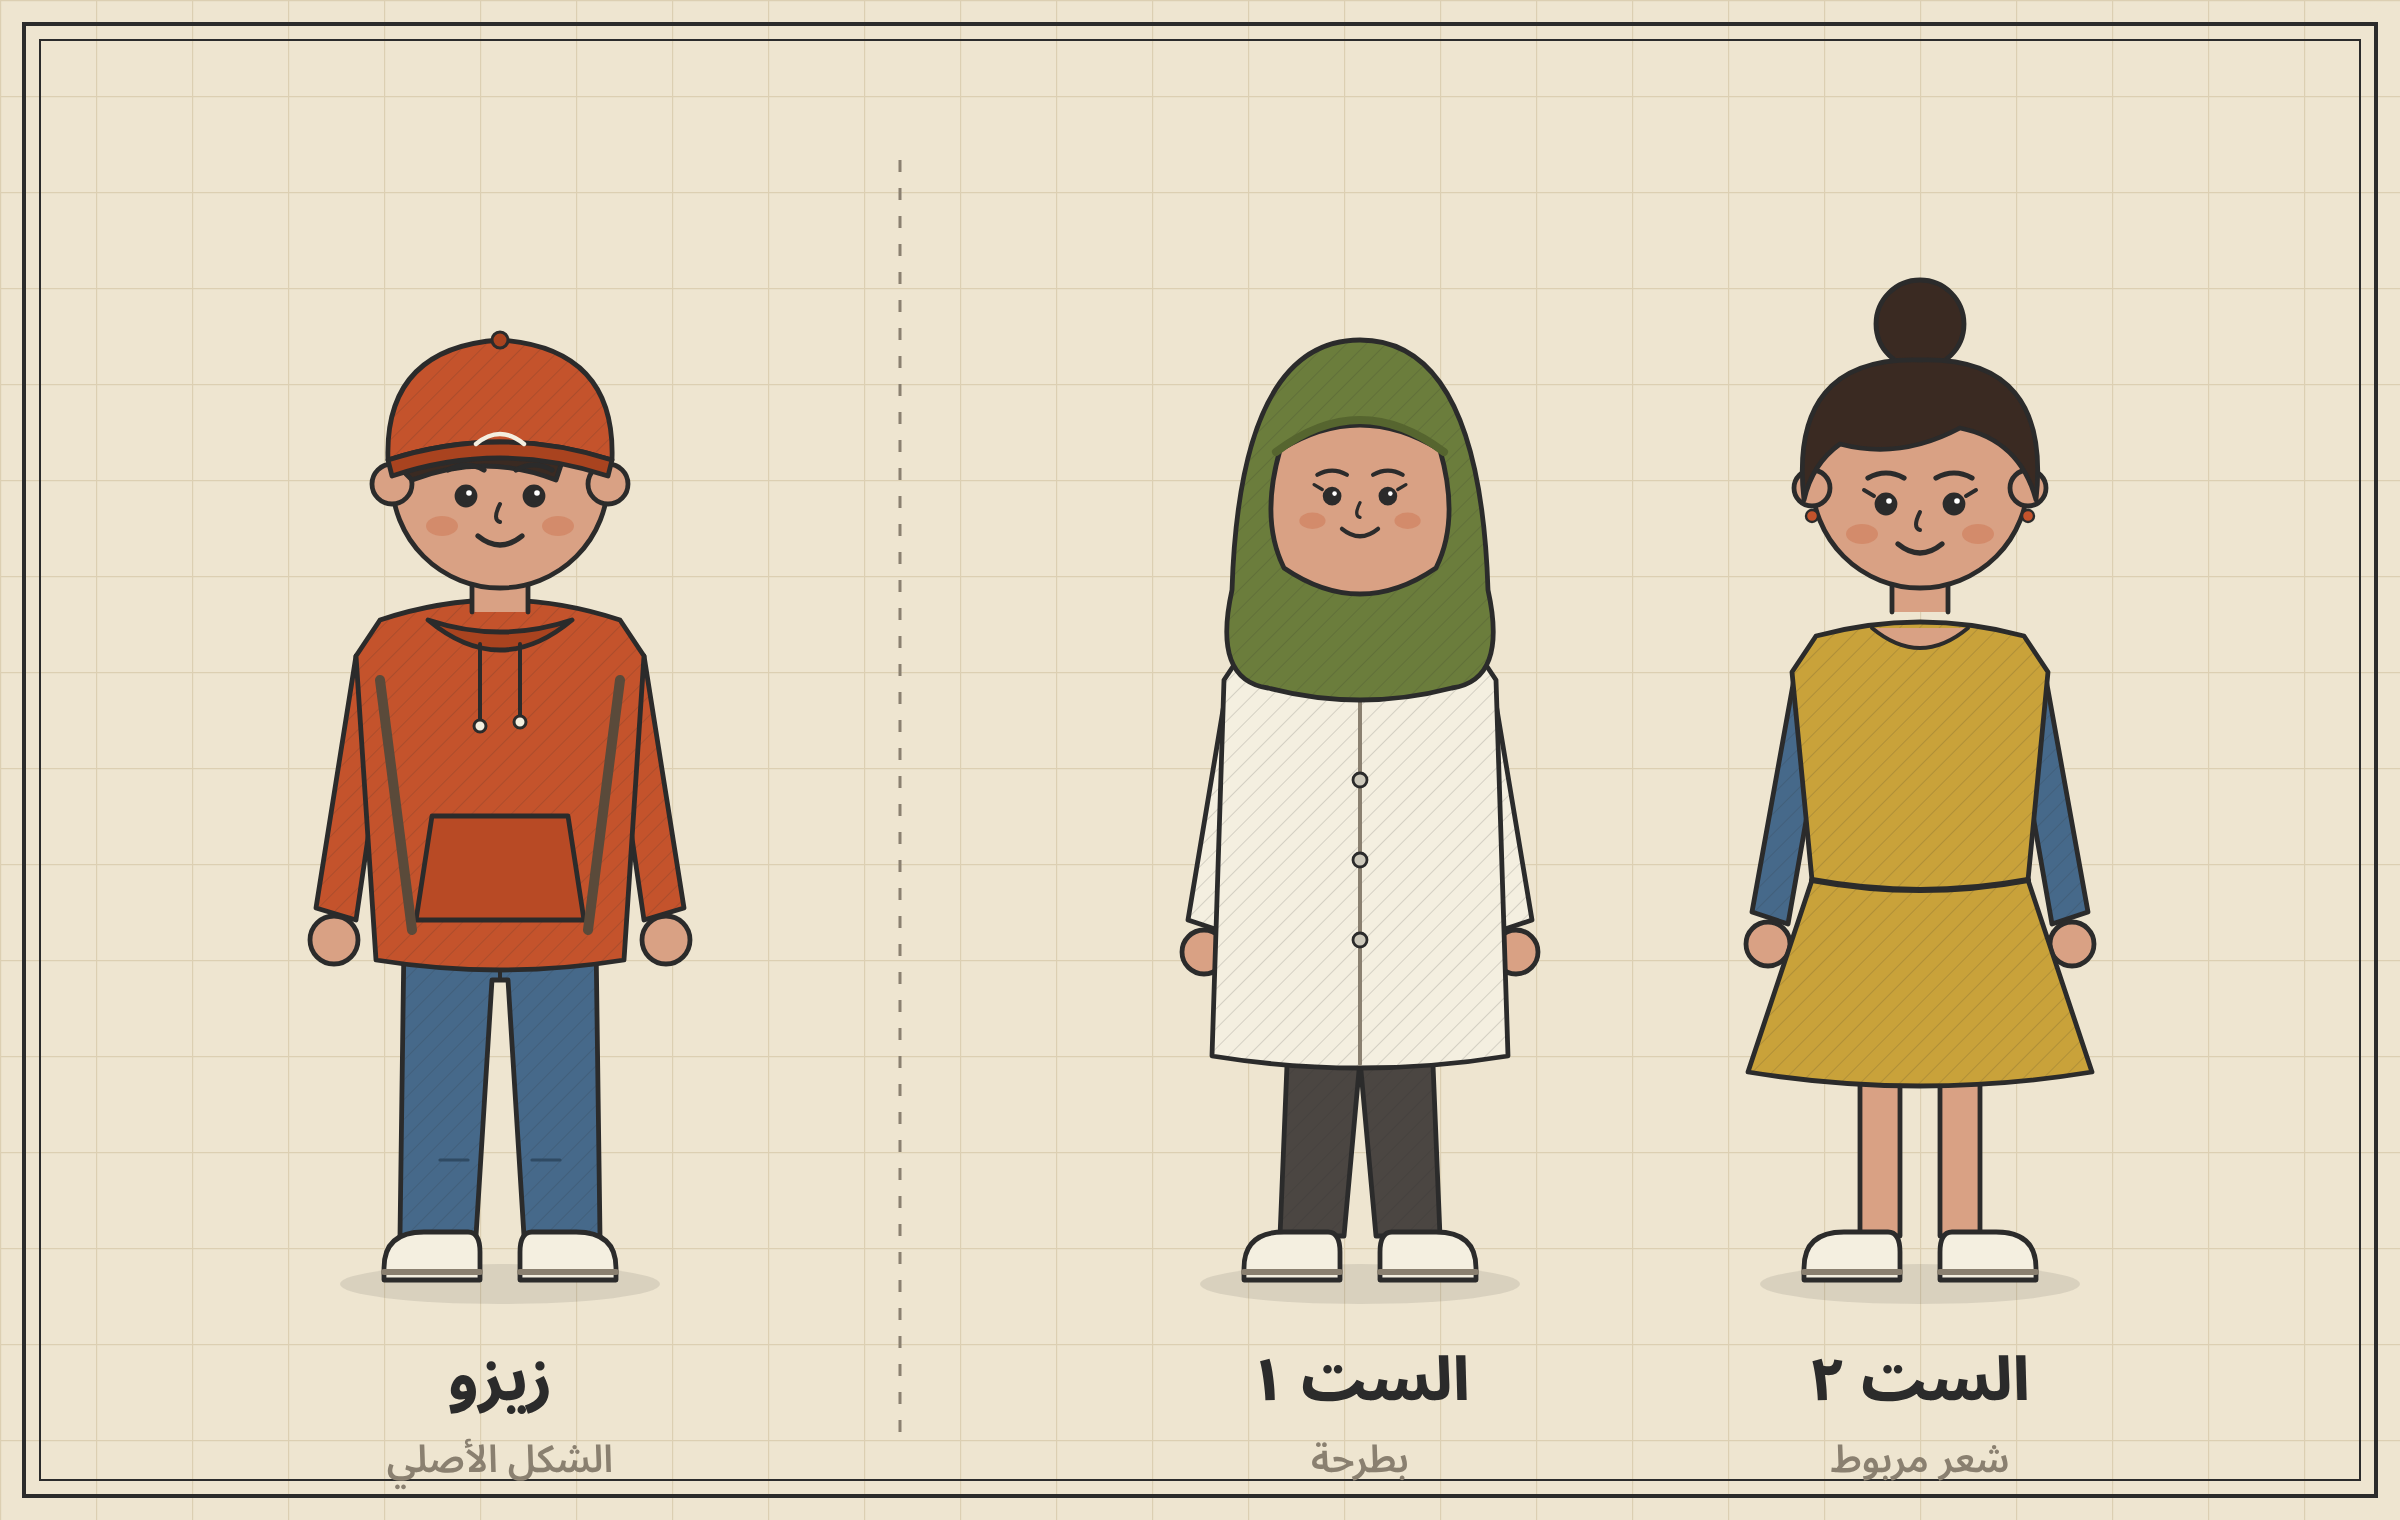
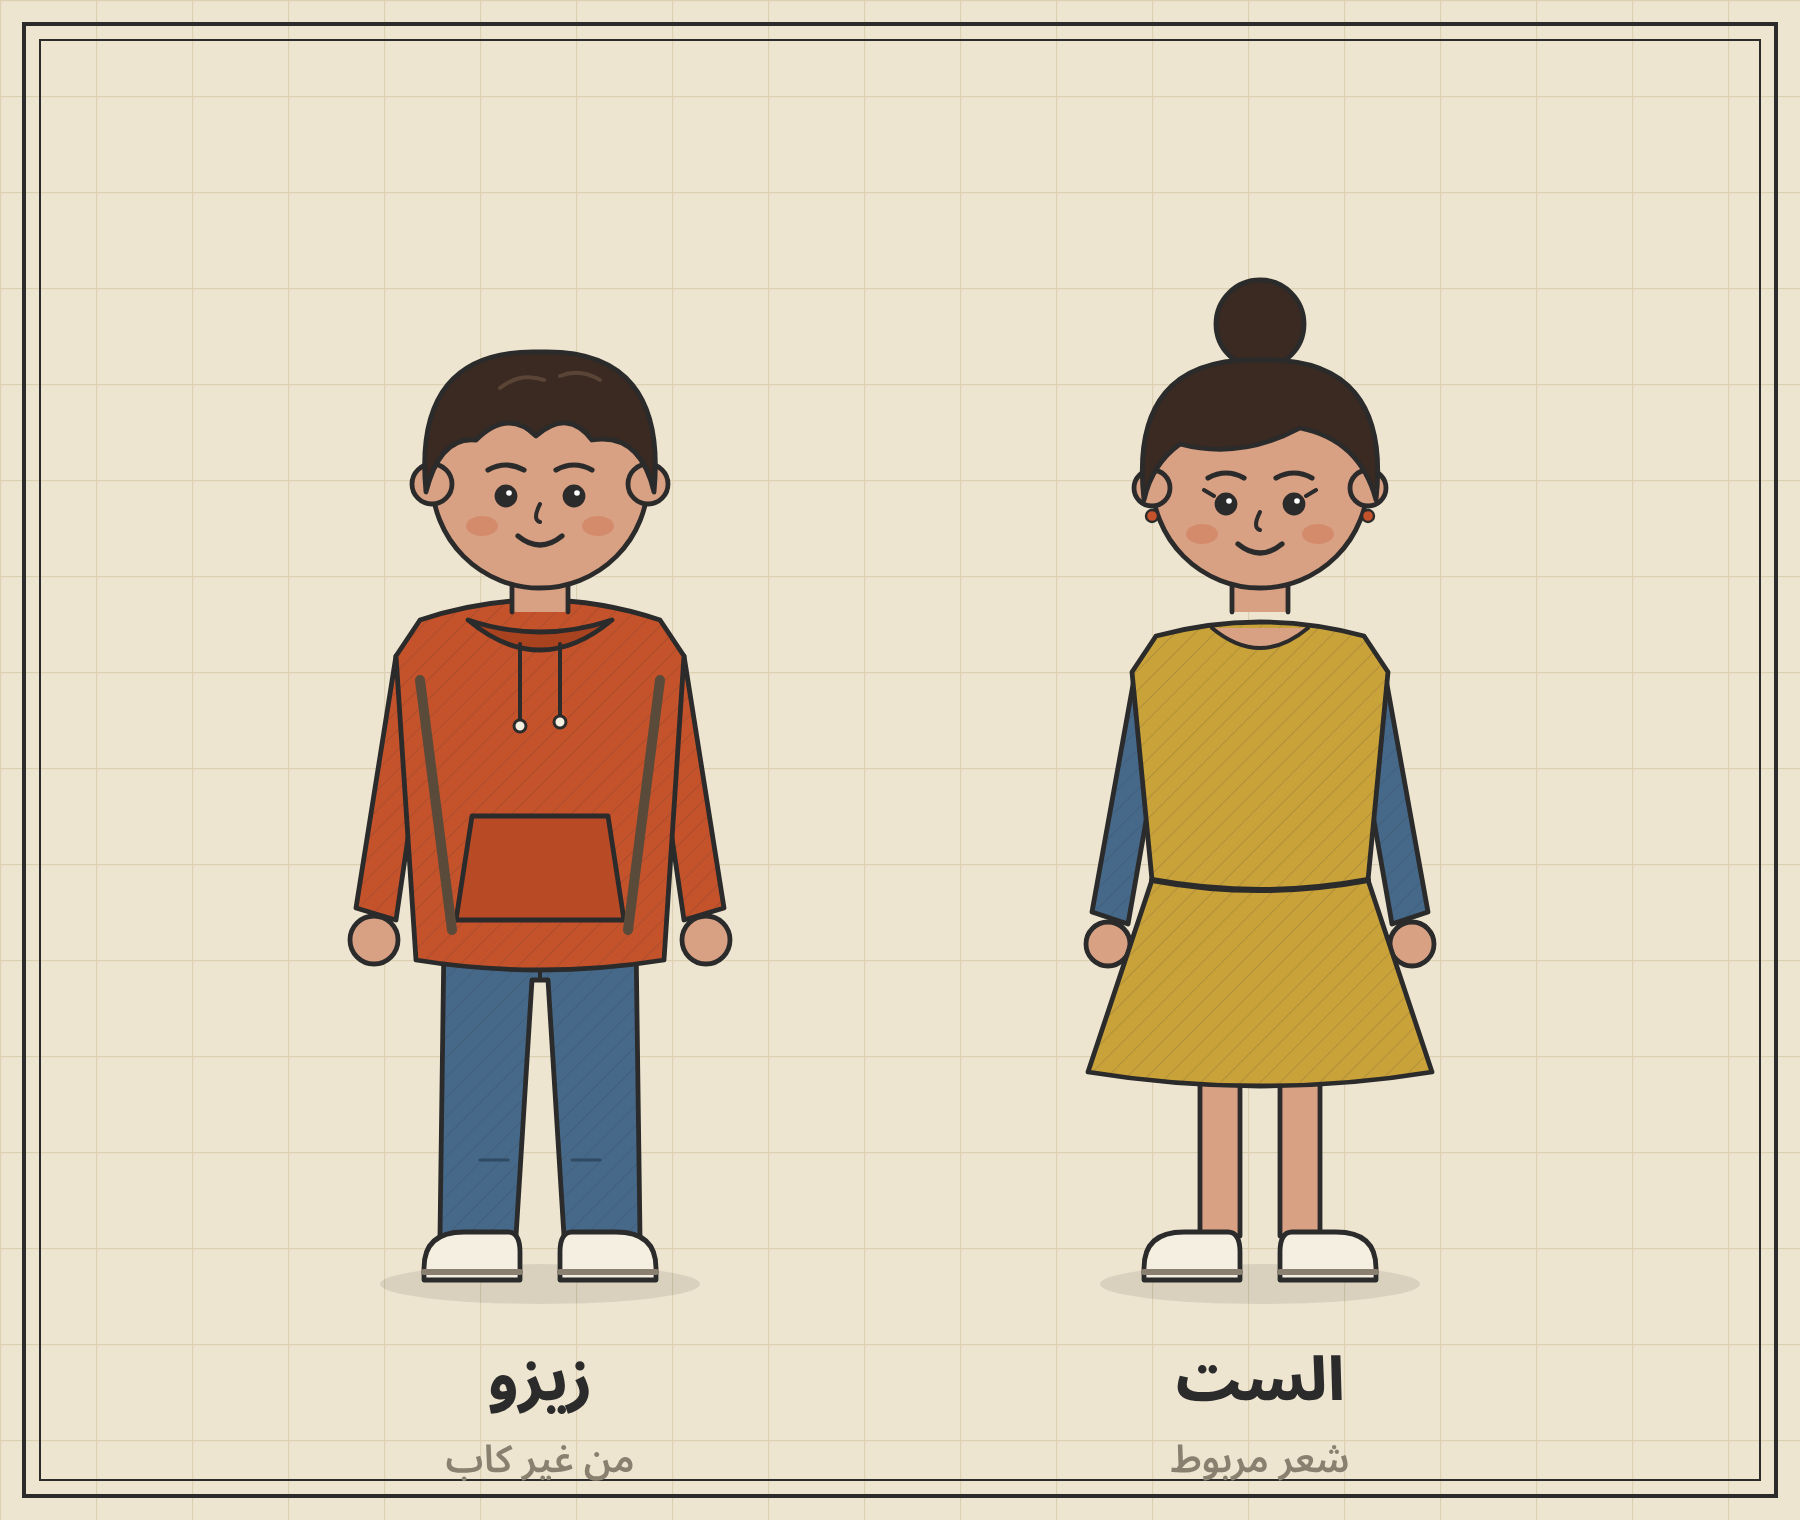
Final characters: Zizo without cap, woman with bun
Claude-Session: https://claude.ai/code/session_01DwiCkCYTfQXqRWG6g44JSe

diff --git a/videos/women-memory/chars/sheet.html b/videos/women-memory/chars/sheet.html
@@ -1,6 +1,6 @@
 <!doctype html><html><head><meta charset="utf-8"><link href="fonts/fonts.css" rel="stylesheet">
 <style>body{margin:0;background:#eee5d0}</style></head><body>
-<svg id="s" xmlns="http://www.w3.org/2000/svg" width="1200" height="760" viewBox="0 0 1200 760"></svg>
+<svg id="s" xmlns="http://www.w3.org/2000/svg" width="900" height="760" viewBox="0 0 900 760"></svg>
 <script>
 var INK="#2b2b2b",PAPER="#eee5d0",ORANGE="#c4532c",BLUE="#46698a",OLIVE="#6b7d3c",PUTTY="#cdc9bb",SKIN="#d9a184",BONE="#f4efe0",GREY="#8a8070";
 function sh(d,fill,h,sw){return '<path d="'+d+'" fill="'+fill+'" stroke="'+INK+'" stroke-width="'+(sw||2.4)+'" stroke-linejoin="round" stroke-linecap="round"/>'+(h?'<path d="'+d+'" fill="url(#hatch)"/>':'');}
@@ -26,10 +26,7 @@ function zizo(){
  s+=sh('M-34 -232 h68 l8 52 h-84z','#b84a25')+ln('M-60 -300 L-44 -175 M60 -300 L44 -175',5,'#5a4a3a');
  s+=sh('M-14 -334 v-18 h28 v18',SKIN);
  s+=c(0,-400,54,SKIN)+c(-54,-398,10,SKIN)+c(54,-398,10,SKIN);
- // hair under cap
- s+=sh('M-48 -404 q6 -14 18 -6 q8 -12 20 -4 q10 -10 20 -2 q10 -8 22 4 l-4 12 q-36 -14 -72 0z','#3a2a22');
- // backwards cap
- s+=sh('M-56 -410 Q-58 -466 0 -470 Q58 -466 56 -410 Q0 -428 -56 -410Z',ORANGE,1)+sh('M-56 -410 Q0 -428 56 -410 L54 -402 Q0 -420 -54 -402Z','#a9431f')+ln('M-12 -418 Q0 -428 12 -418',2.2,BONE)+c(0,-470,4,'#a9431f',0,1.5);
+ s+=sh('M-57 -394 Q-64 -466 0 -464 Q64 -466 57 -394 Q50 -424 26 -420 Q14 -436 -2 -422 Q-16 -436 -32 -420 Q-50 -422 -57 -394Z','#3a2a22')+ln('M-20 -446 q10 -8 22 -4 M10 -452 q10 -4 20 2',2,'#5a4436');
  s+=face(-392);
  return s;
 }
@@ -57,12 +54,9 @@ function womanB(){ // hair bun + dress
 }
 function card(x,label,sub,body){return '<g transform="translate('+x+' 640)">'+body+'</g>'+T(label,x,700,30,INK,800)+T(sub,x,736,19,GREY,600);}
 var s='<defs><pattern id="hatch" width="7" height="7" patternUnits="userSpaceOnUse" patternTransform="rotate(45)"><path d="M0 0 V7" stroke="#2b2b2b" stroke-width="1" opacity=".16"/></pattern><pattern id="grid" width="48" height="48" patternUnits="userSpaceOnUse"><path d="M48 0 H0 V48" stroke="#dccfb2" stroke-width="1.2" fill="none"/></pattern></defs>';
-s+='<rect width="1200" height="760" fill="'+PAPER+'"/><rect width="1200" height="760" fill="url(#grid)"/>';
-s+='<rect x="12" y="12" width="1176" height="736" fill="none" stroke="'+INK+'" stroke-width="2"/><rect x="20" y="20" width="1160" height="720" fill="none" stroke="'+INK+'" stroke-width="1"/>';
-s+=card(250,'زيزو','الشكل الأصلي',zizo());
-s+='<line x1="450" y1="80" x2="450" y2="720" stroke="'+GREY+'" stroke-width="1.5" stroke-dasharray="6 8"/>';
-s+=card(680,'الست ١','بطرحة',womanA());
-s+=card(960,'الست ٢','شعر مربوط',womanB());
-s+=card(1040,'','',''); // spacer
+s+='<rect width="900" height="760" fill="'+PAPER+'"/><rect width="900" height="760" fill="url(#grid)"/>';
+s+='<rect x="12" y="12" width="876" height="736" fill="none" stroke="'+INK+'" stroke-width="2"/><rect x="20" y="20" width="860" height="720" fill="none" stroke="'+INK+'" stroke-width="1"/>';
+s+=card(270,'زيزو','من غير كاب',zizo());
+s+=card(630,'الست','شعر مربوط',womanB());
 document.getElementById('s').innerHTML=s;
 </script></body></html>

diff --git a/videos/women-memory/chars/shot.js b/videos/women-memory/chars/shot.js
@@ -1,1 +1,1 @@
-const {chromium}=require('playwright');(async()=>{const b=await chromium.launch();const p=await b.newPage({viewport:{width:1200,height:760},deviceScaleFactor:2});await p.goto('file://'+process.argv[2]);await p.waitForTimeout(800);await p.screenshot({path:process.argv[3]});await b.close();})();
+const {chromium}=require('playwright');(async()=>{const b=await chromium.launch();const p=await b.newPage({viewport:{width:900,height:760},deviceScaleFactor:2});await p.goto('file://'+process.argv[2]);await p.waitForTimeout(800);await p.screenshot({path:process.argv[3]});await b.close();})();
